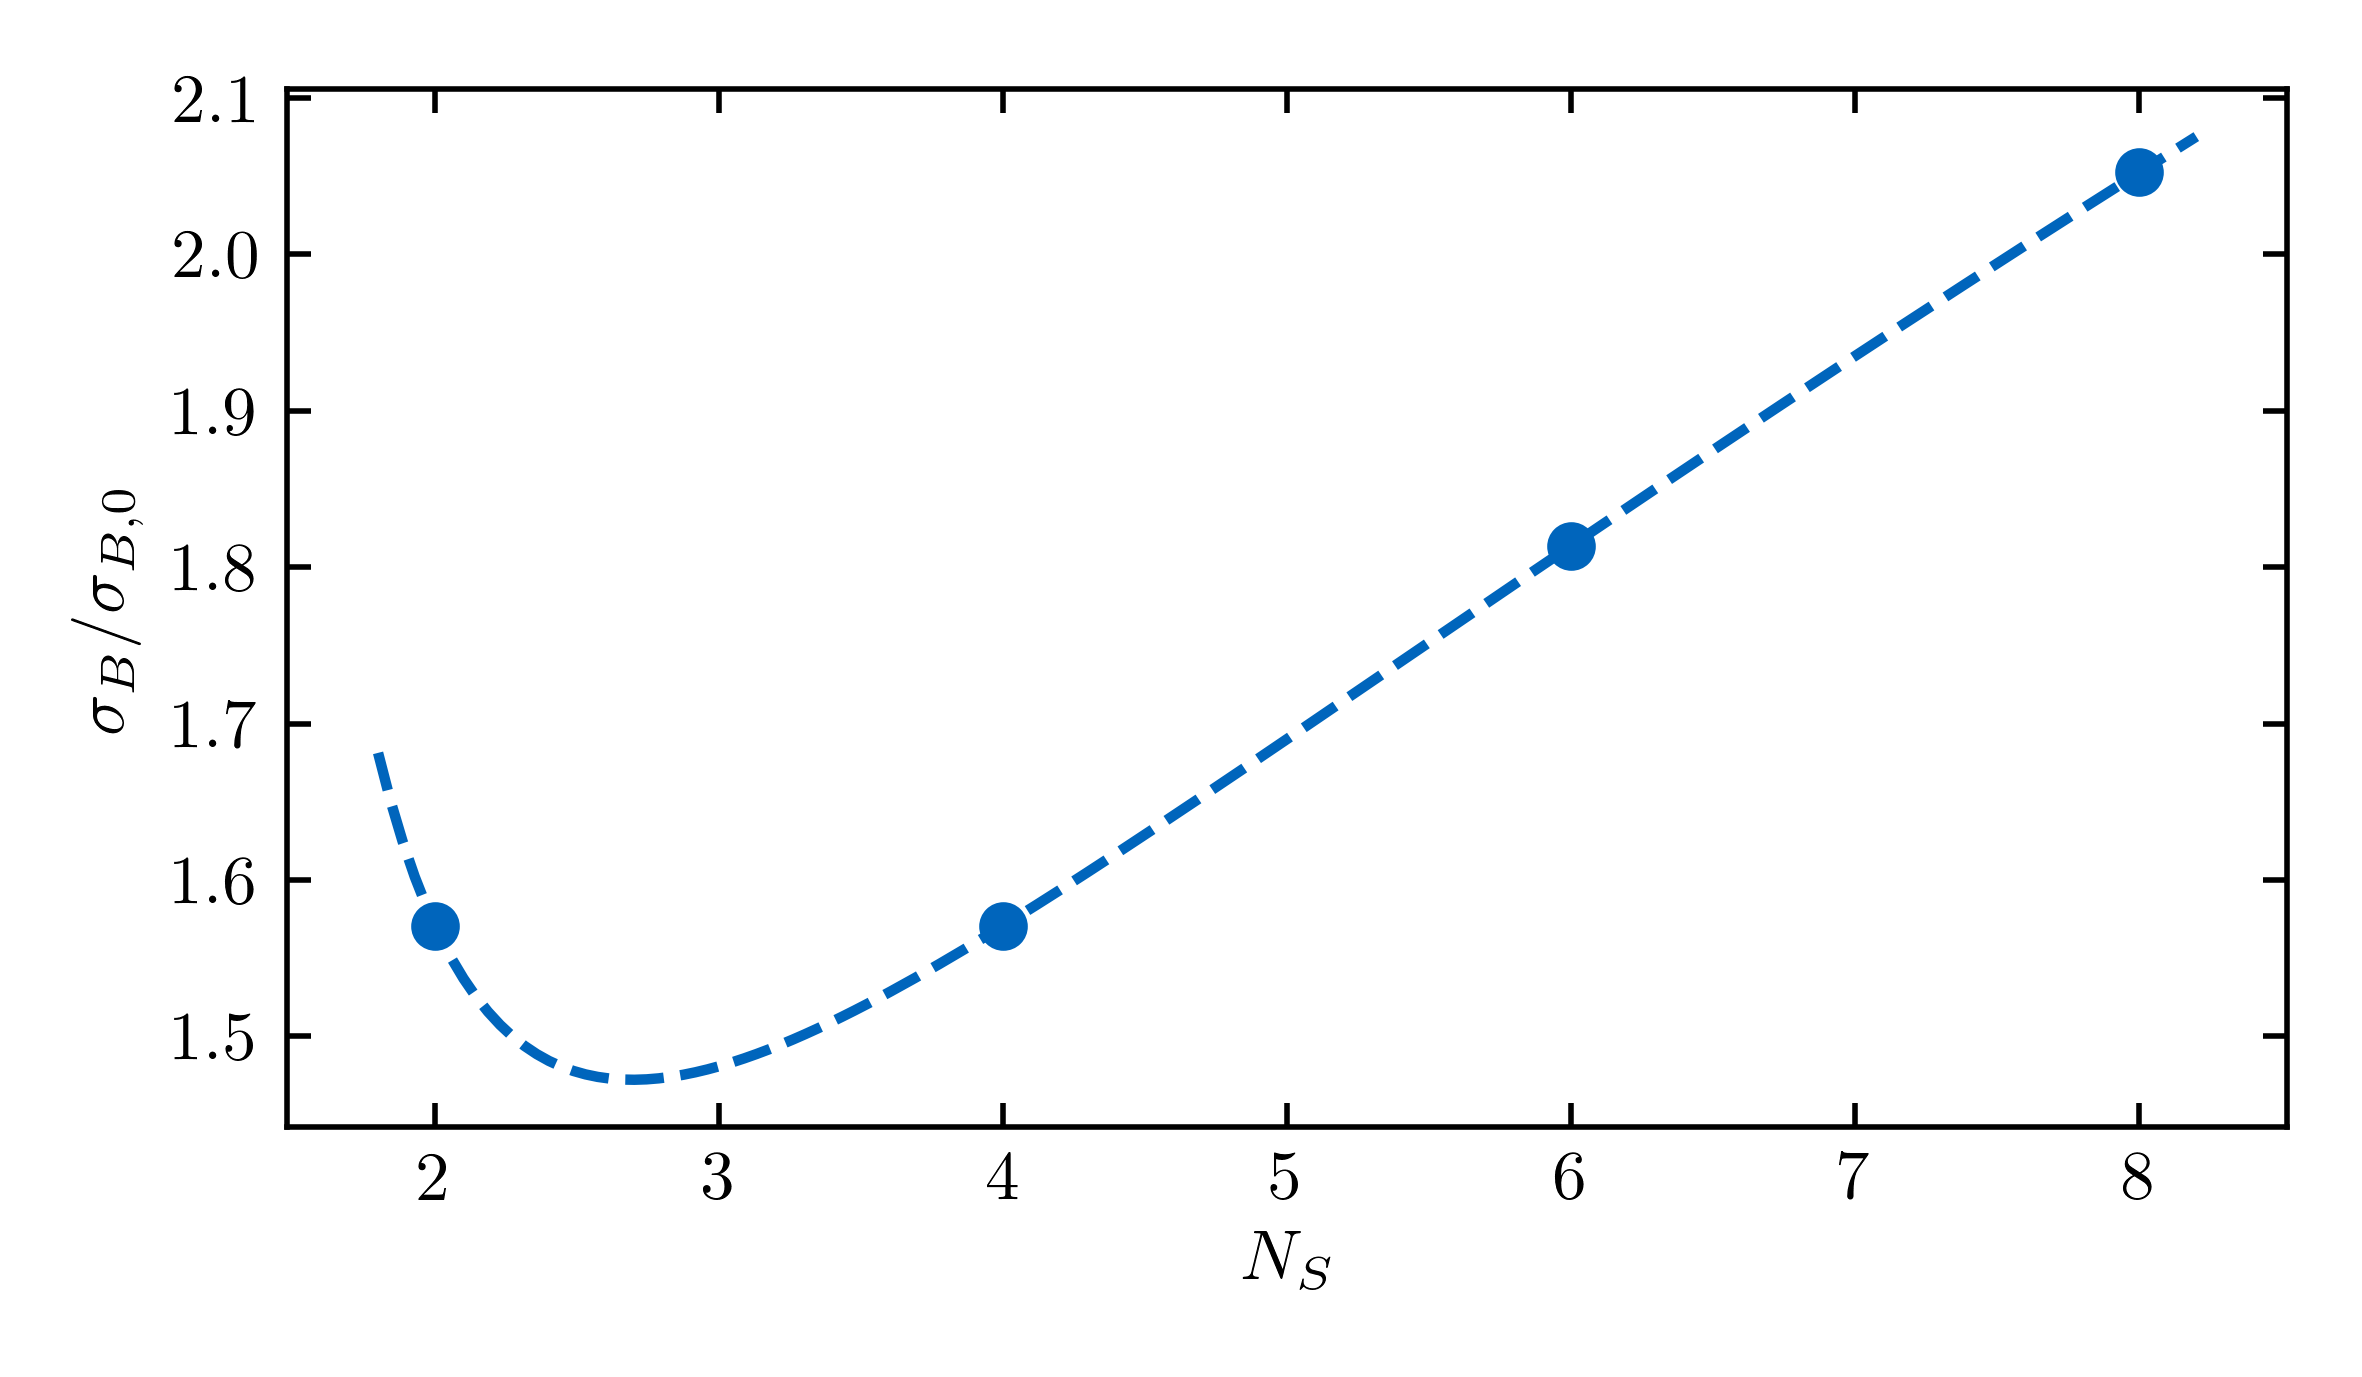
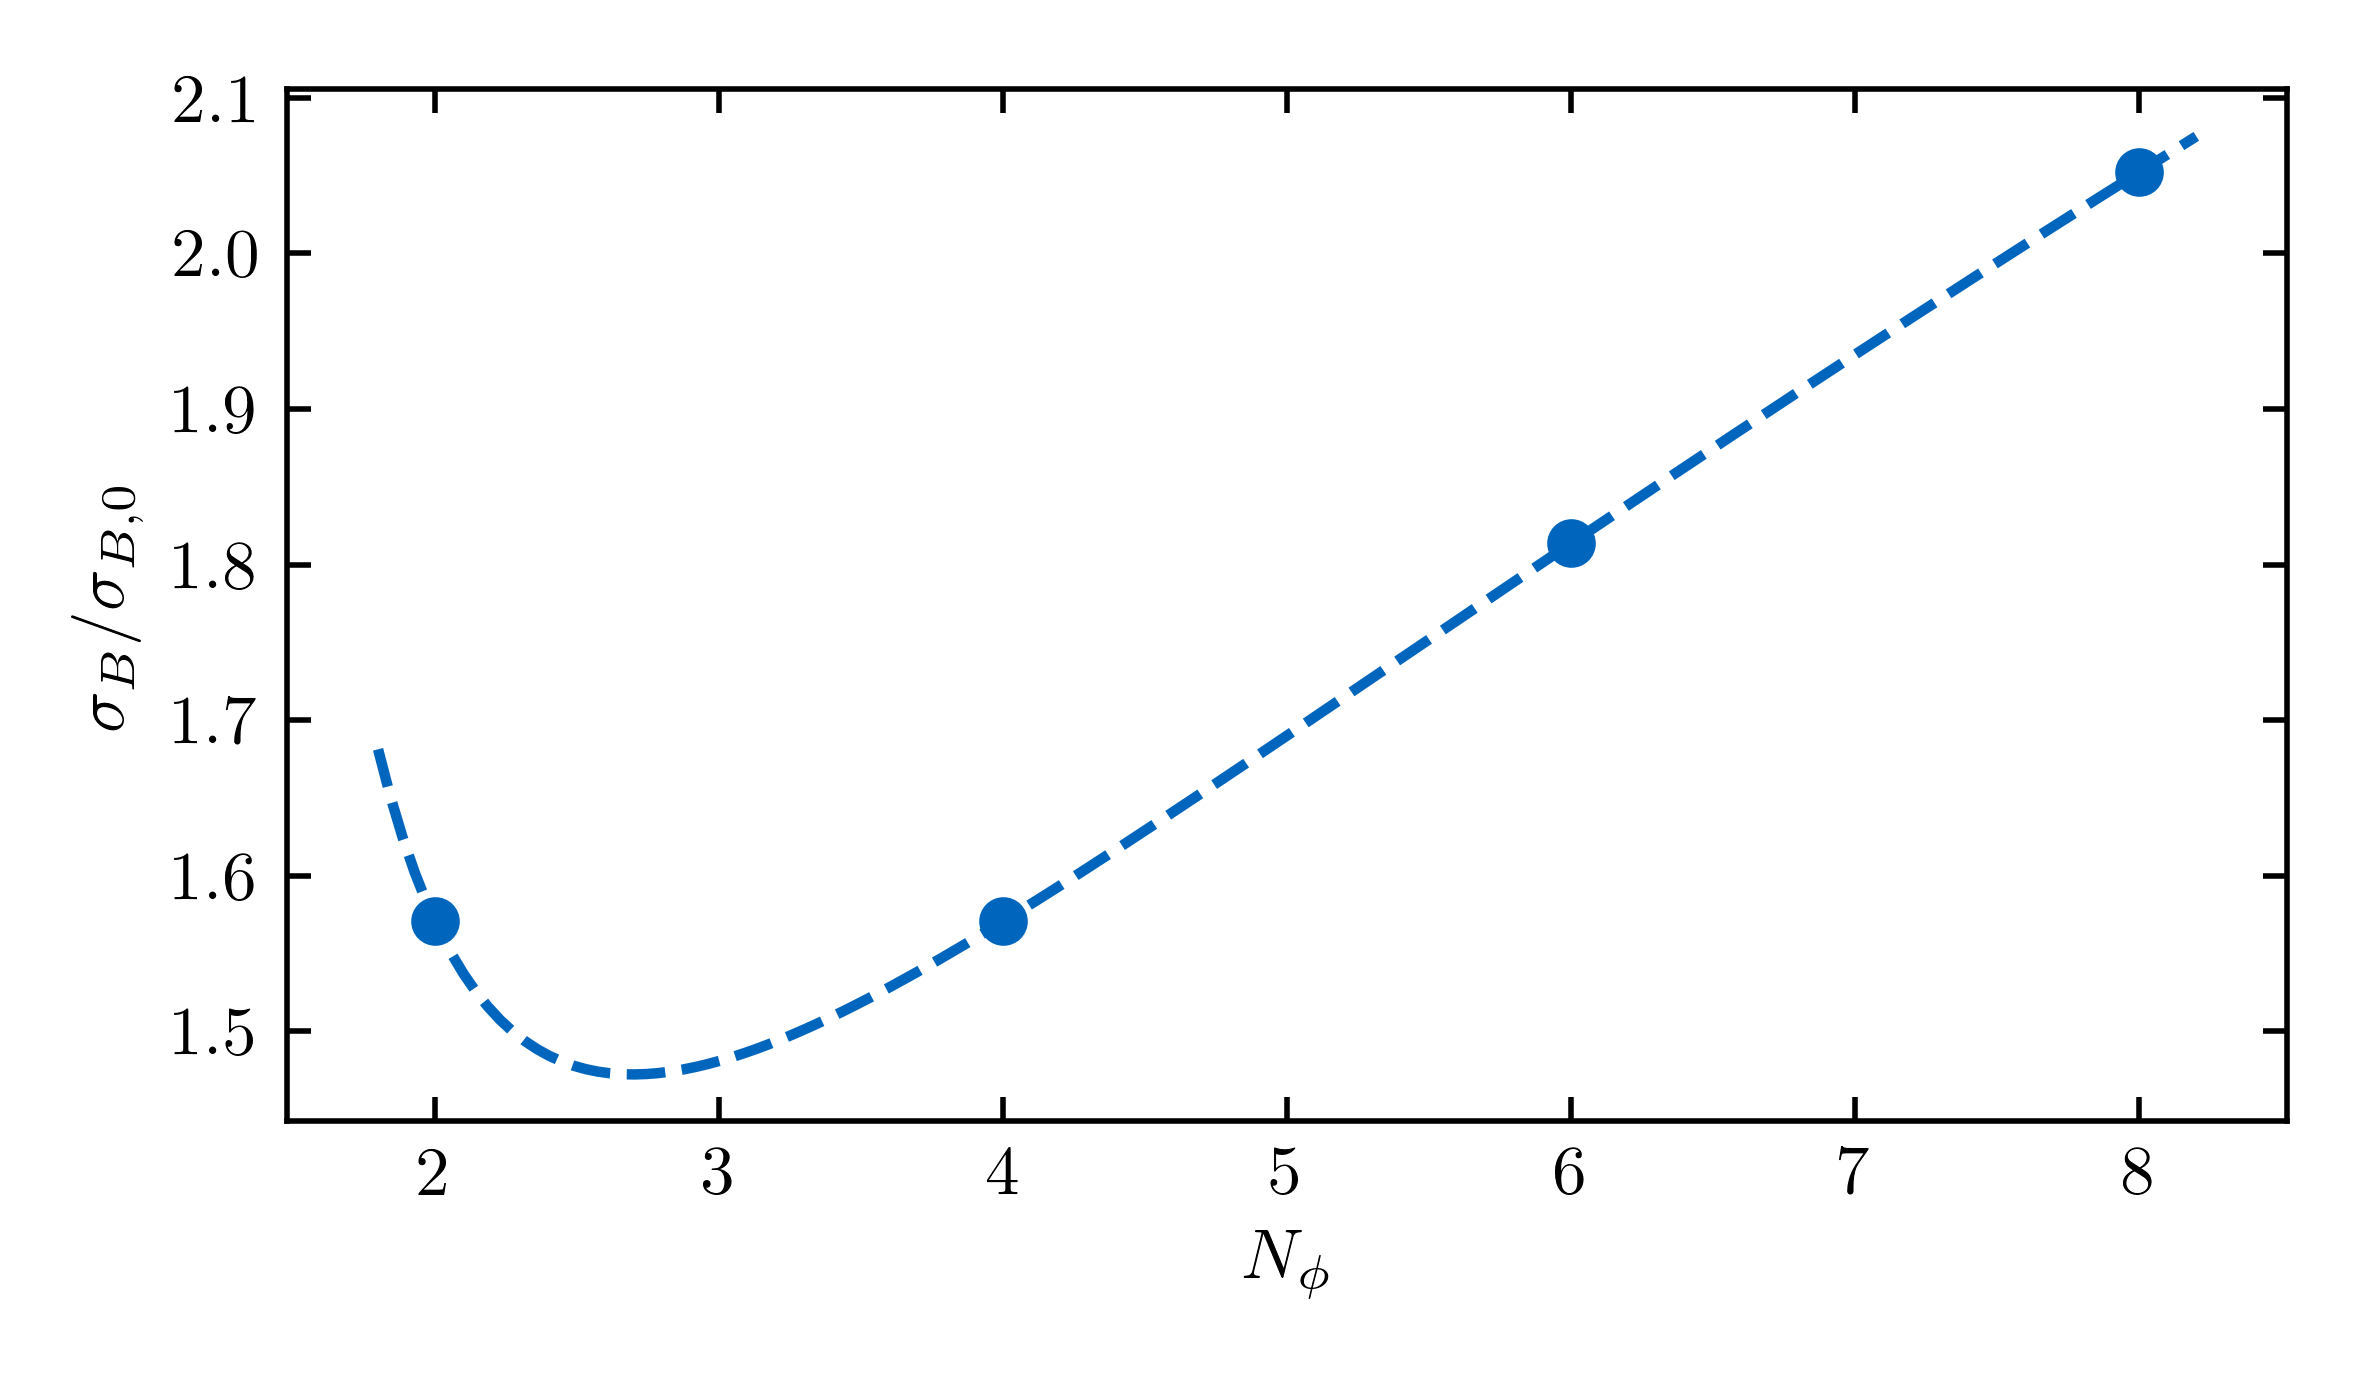
chapter7/sensitivity_vs_sectors
- changed N_S to N_\phi

diff --git a/images/chapter_7/sensitivity_vs_sectors.py b/images/chapter_7/sensitivity_vs_sectors.py
@@ -14,7 +14,7 @@ def create_and_save_plot():
     plt.plot(ns_continuous, sensitivity(ns_continuous), '--',
              color=tum_jet.tum_color(0))
     plt.plot(ns_discrete, sensitivity(ns_discrete), 'o', color=tum_jet.tum_color(0))
-    plt.xlabel(r'$N_S$')
+    plt.xlabel(r'$N_\phi$')
     plt.ylabel(r'$\sigma_B / \sigma_{B,0}$')
     plt.tight_layout()
     plt.savefig('sensitivity_vs_sectors.png', dpi=500)
